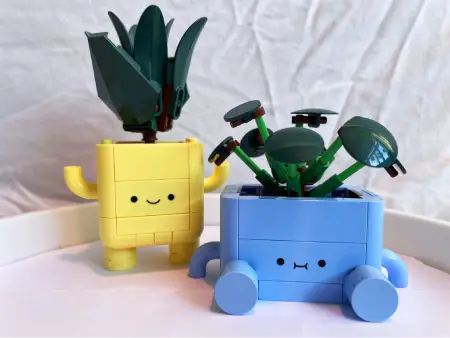
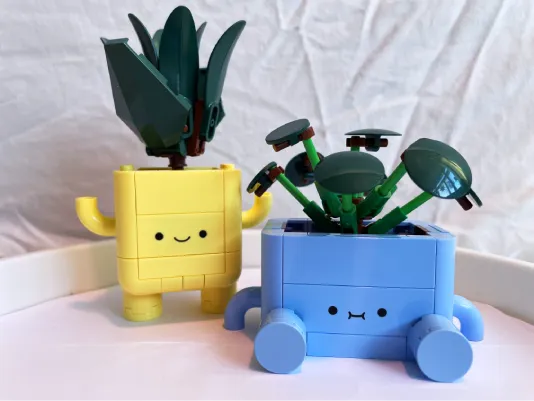
byter bilder för product1

Changed region(s): [[0.6533, 0.3254, 0.6844, 0.355], [0.4978, 0.355, 0.5289, 0.3846]]

diff --git a/product1.html b/product1.html
@@ -69,26 +69,26 @@
         <div class="productImages gridSectionOne">
             <a href="images/product1/product1_lightbox.jpg" target="_blank" data-lightbox="product1-images">
                 <picture>
-                    <source srcset="images/product1/product1_main.webp" width="450" height="338" type="image/webp">
-                    <img src="images/product1/product1_main.jpg" alt="gul och blå legokruka med grön växt" width="450"
-                        height="338" fetchpriority="high">
+                    <source srcset="images/product1/product1_main.webp" width="534" height="401" type="image/webp">
+                    <img src="images/product1/product1_main.jpg" alt="gul och blå legokruka med grön växt" width="534"
+                        height="401" fetchpriority="high">
                 </picture>
             </a>
             <div class="thumbnailsProduct">
                 <a href="images/product1/product1_2lightbox.jpg" target="_blank" data-lightbox="product1-images">
                     <picture>
-                        <source srcset="images/product1/product1_2mainsmall.webp" width="150" height="113"
+                        <source srcset="images/product1/product1_2mainsmall.webp" width="225" height="169"
                             type="image/webp">
                         <img src="images/product1/product1_2mainsmall.jpg" alt="gul och blå legokruka med grön växt"
-                            width="150" height="113">
+                            width="225" height="169">
                     </picture>
                 </a>
                 <a href="images/product1/product1_3lightbox.jpg" target="_blank" data-lightbox="product1-images">
                     <picture>
-                        <source srcset="images/product1/product1_3mainsmall.webp" width="150" height="113"
+                        <source srcset="images/product1/product1_3mainsmall.webp" width="225" height="169"
                             type="image/webp">
                         <img src="images/product1/product1_3mainsmall.jpg" alt="gul och blå legokruka med grön växt"
-                            width="150" height="113">
+                            width="225" height="169">
                     </picture>
                 </a>
             </div>

diff --git a/products.html b/products.html
@@ -55,10 +55,10 @@
                 <a href="product1.html">
                     <div>
                         <picture>
-                            <source srcset="images/product1/product1_products.webp" width="400" height="300"
+                            <source srcset="images/product1/product1_main.webp" width="534" height="401"
                                 type="image/webp">
-                            <img src="images/product1/product1_products.jpg" alt="gul och blå legokruka med grön växt"
-                                width="400" height="300" fetchpriority="high">
+                            <img src="images/product1/product1_main.jpg" alt="gul och blå legokruka med grön växt"
+                                width="534" height="401" fetchpriority="high">
                         </picture>
                         <h2>Glada växter</h2>
                         <h3>Artikelnummer: 001-001</h3>
